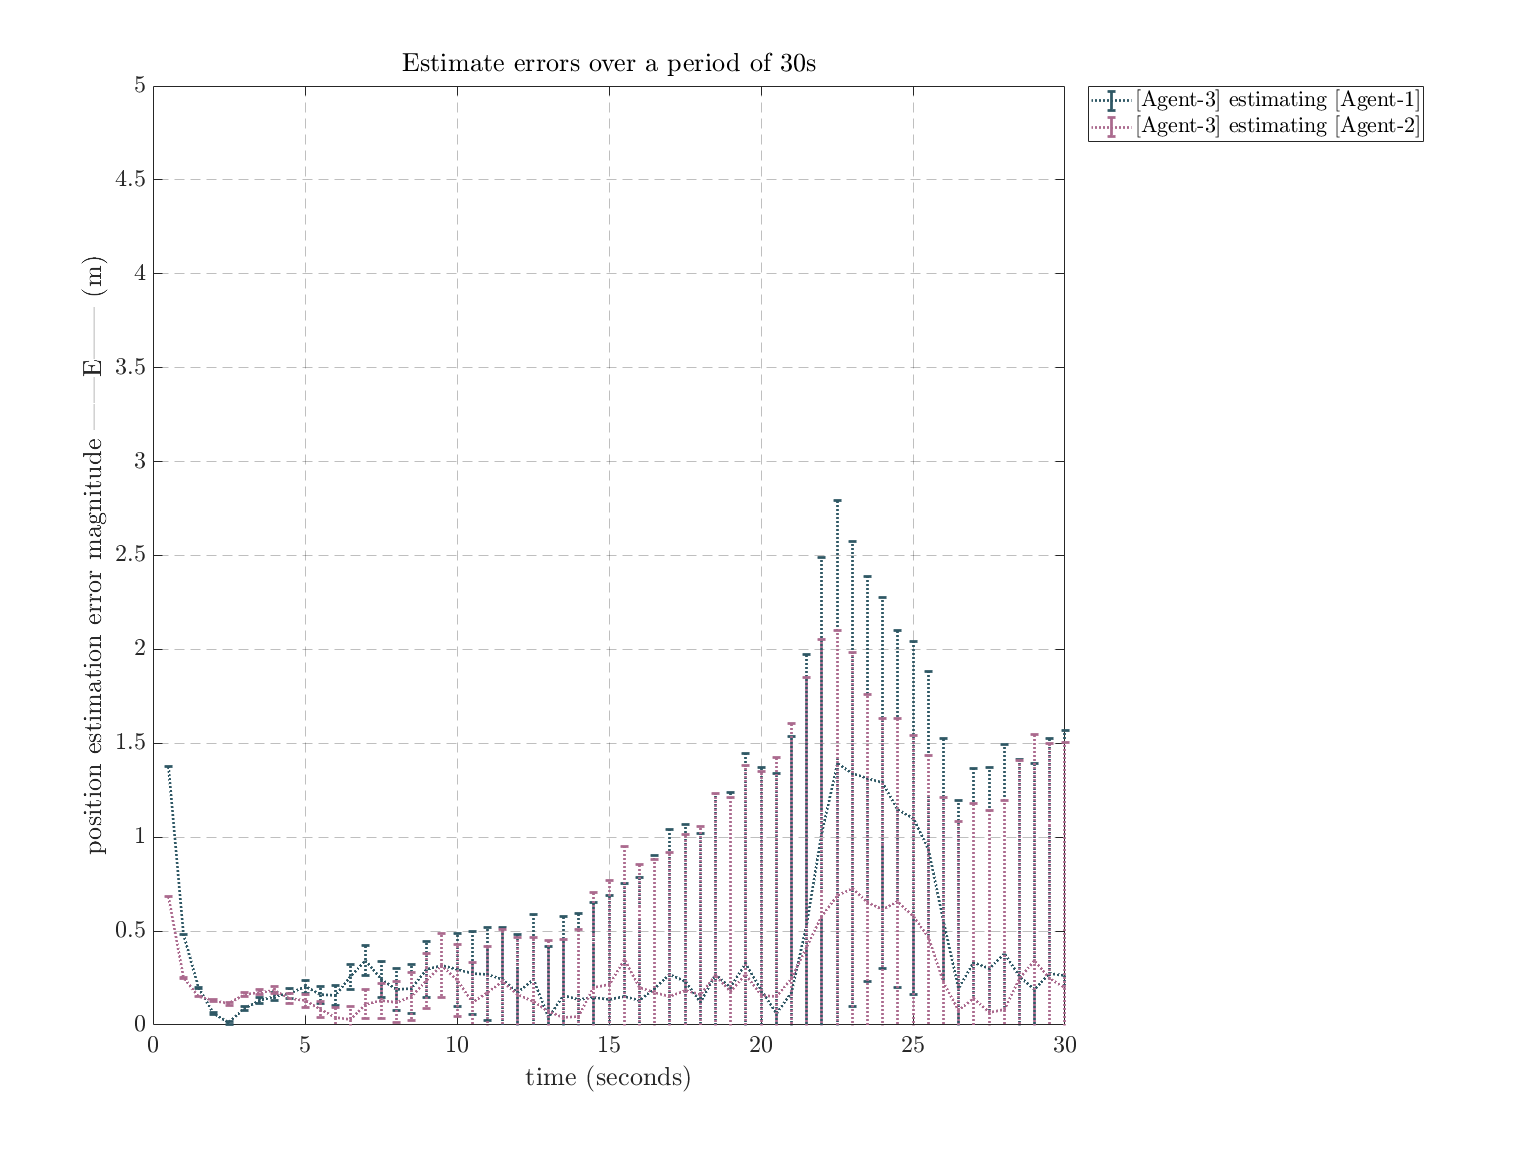
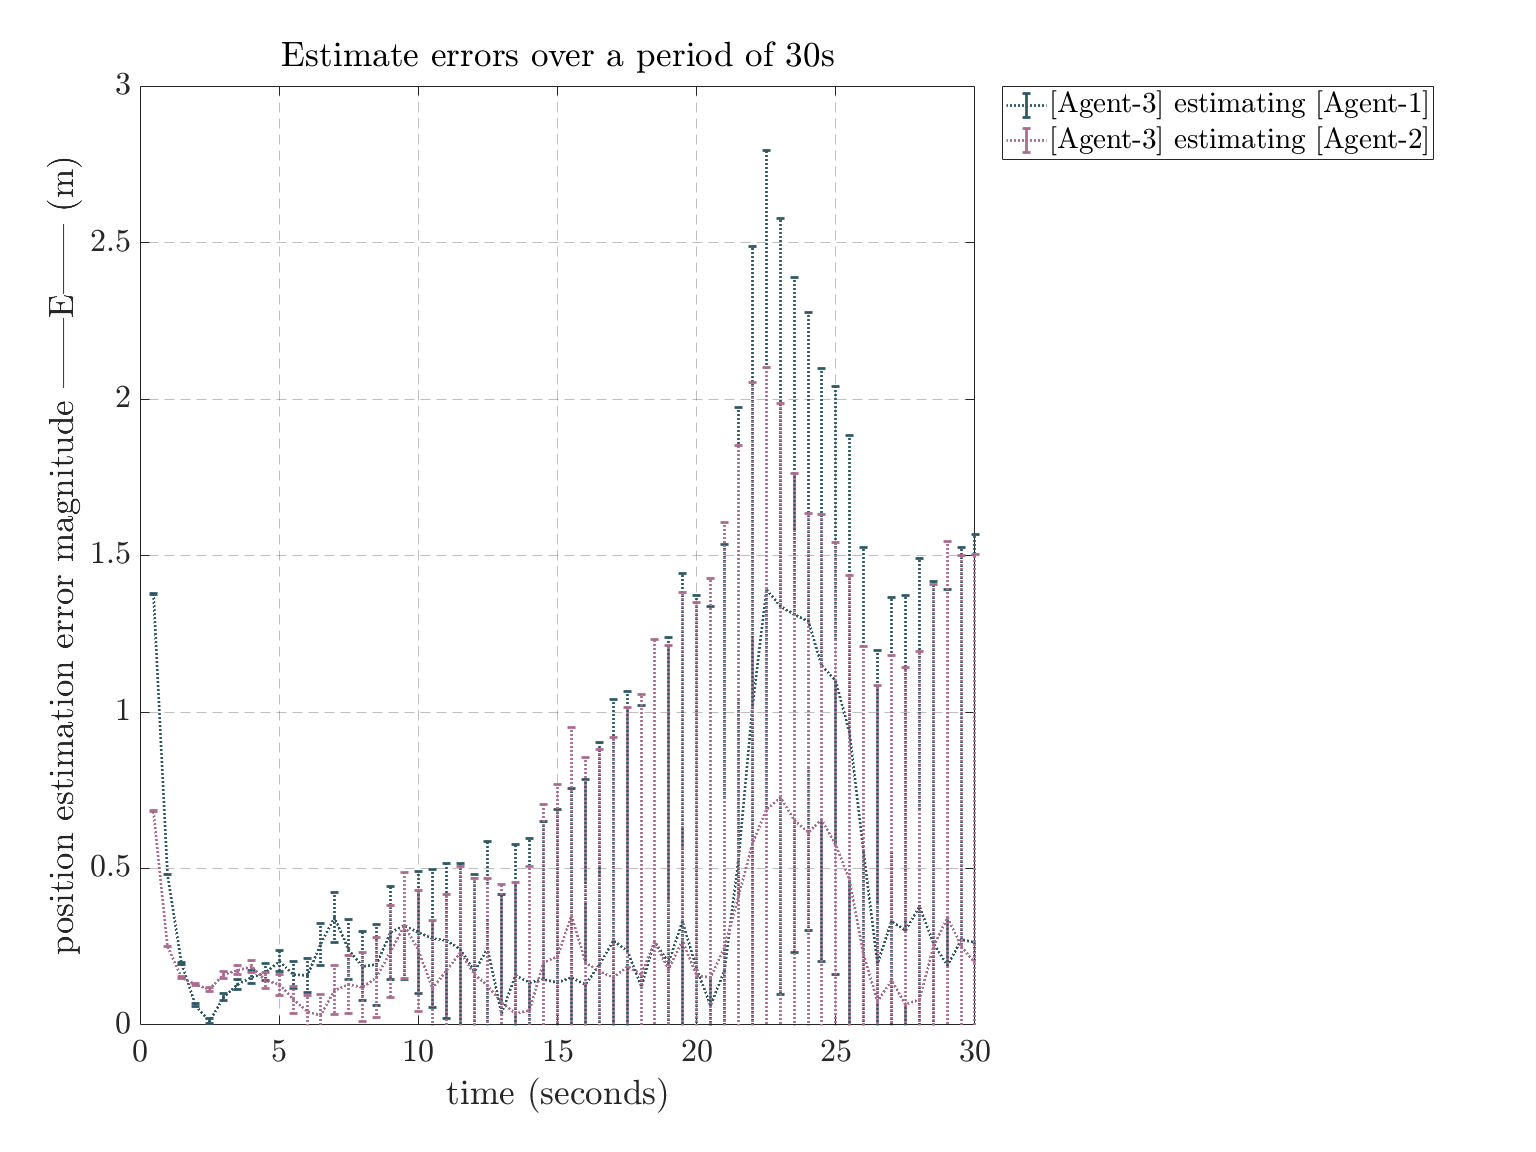
Changed plotting font and font size in figure_properties and updated figures to match

diff --git a/environment/OMAS_figureProperties.m b/environment/OMAS_figureProperties.m
@@ -17,9 +17,9 @@ figureProperties.margin = 30;                   % Percentage signal margin of pl
 figureProperties.spacing = 40;                  % Spacing between figures
 figureProperties.tailLength = 4;                % The tail length (in seconds) of comet-like figures
 figureProperties.titleFontSize = 28;
-figureProperties.axisFontSize = 18;
+figureProperties.axisFontSize = 24;
 figureProperties.fontWeight = 'bold';
-figureProperties.fontName = 'Helvetica';
+figureProperties.fontName = 'Consolas';
 figureProperties.interpreter = 'latex';
 figureProperties.markerSize = 10;
 figureProperties.markerEdgeColor = 'k';

diff --git a/DSE_2_agents.m b/DSE_2_agents.m
@@ -34,7 +34,7 @@ sim_publishFigures = false;
 % sim_figureSet = {'all'};
 % sim_figureSet = {'events','plan','inputs','isometric','gif'};
 % sim_figureSet = {'plan','avoidance','inputs','isometric','gif'};
-sim_figureSet = {'isometric','estimates_rel', 'estimate_errors'};
+sim_figureSet = {'plan','estimates_rel', 'estimate_errors'};
 
 %% SCENARIO PARAMETERS
 
@@ -49,7 +49,7 @@ sim_figureSet = {'isometric','estimates_rel', 'estimate_errors'};
 
 % Hybrid Consensus
 sim_obsRadius       = inf;
-sim_commRadius      = inf;
+sim_commRadius      = 0;
 
 % Other parameters
 sim_agentNumber     = 3;
